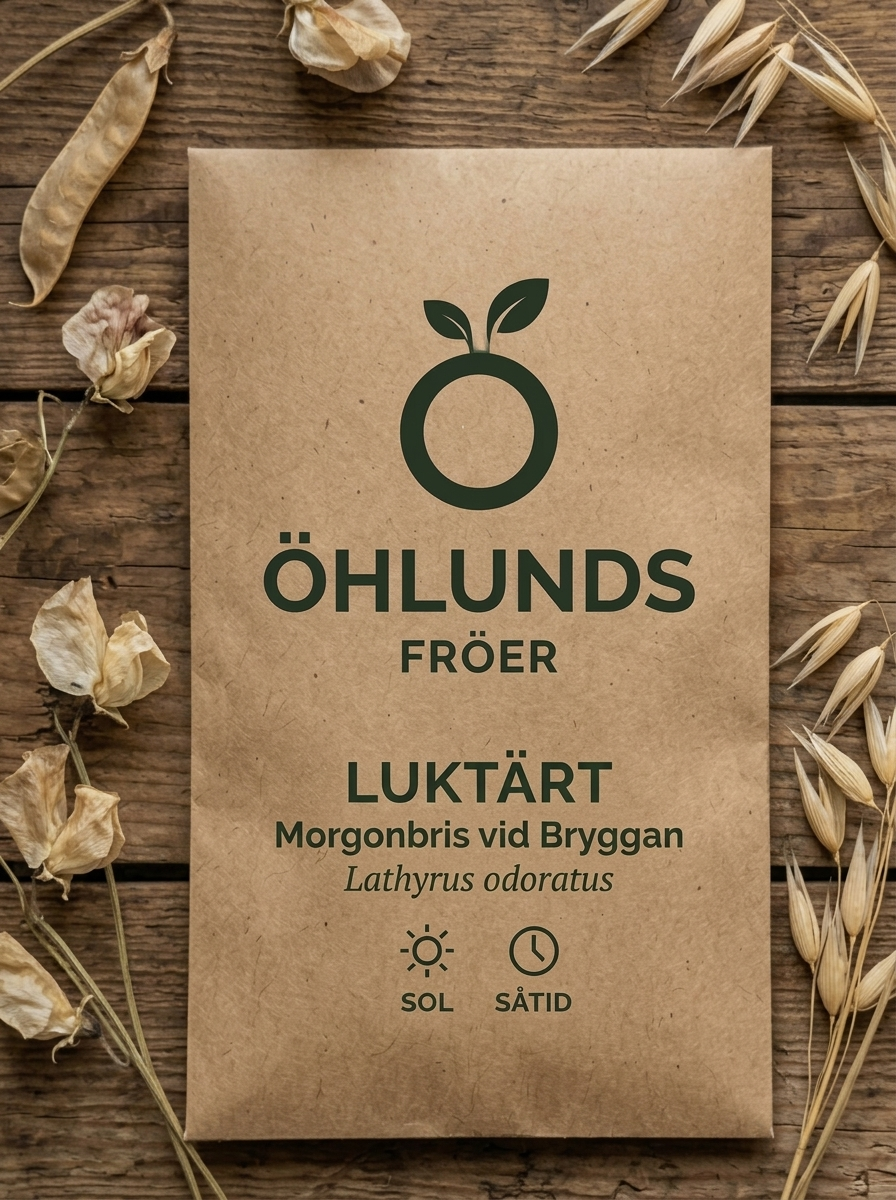
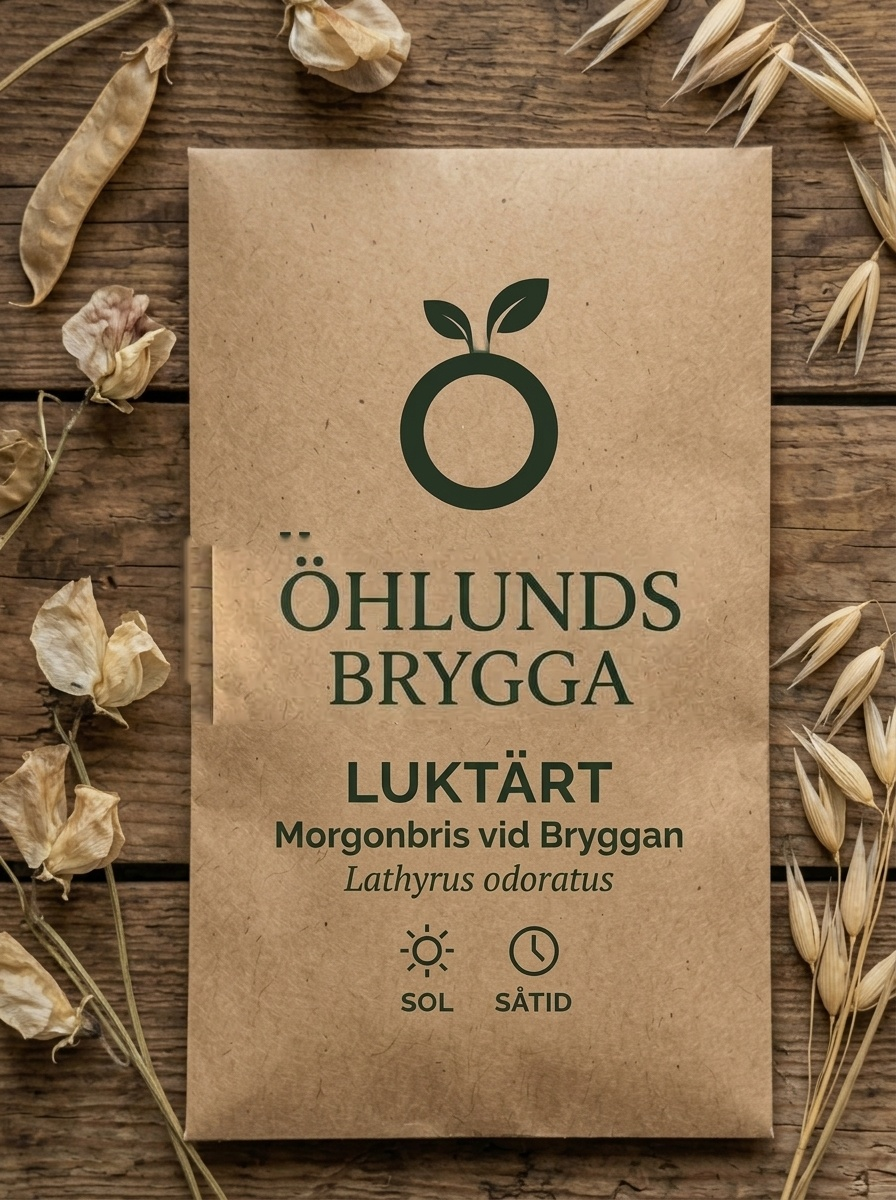
fix(branding): uppdatera ÖHLUNDS BRYGGA på trämärketiketter, luktärt & körsbärstomat samt automatisk paketrabatt i varukorg

Changed region(s): [[0.1875, 0.4317, 0.7812, 0.6167]]

diff --git a/prototype-sandbox/src/app/page.tsx b/prototype-sandbox/src/app/page.tsx
@@ -207,16 +207,31 @@ export default function StorefrontPage() {
   const FREE_SHIPPING_LIMIT = 350;
   const isFreeShipping = (cartSubtotal >= FREE_SHIPPING_LIMIT || appliedPromo?.type === "FREE_SHIPPING") && !hasBulkyParcel;
 
+  // Bundle discount in cart:
+  // If all 4 items from the bundle are in cart, an automatic bundle discount of 23 kr applies (145 kr bundle price vs 168 kr regular price)
+  const bundleDiscountMultiplier = useMemo(() => {
+    const quantities = bundleComponentIds.map((id) => {
+      const found = cart.find((it) => it.product.id === id);
+      return found ? found.qty : 0;
+    });
+    return Math.min(...quantities);
+  }, [cart, bundleComponentIds]);
+
+  const bundleDiscountAmount = bundleDiscountMultiplier * 23; // 168 kr ordinarie - 145 kr paketpris = 23 kr rabatt per komplett set
+
   const discountAmount = useMemo(() => {
     if (!appliedPromo) return 0;
+    const baseForPromo = Math.max(0, cartSubtotal - bundleDiscountAmount);
     if (appliedPromo.type === "PERCENT") {
-      return Math.round((cartSubtotal * appliedPromo.value) / 100);
+      return Math.round((baseForPromo * appliedPromo.value) / 100);
     }
     if (appliedPromo.type === "FIXED") {
-      return Math.min(cartSubtotal, appliedPromo.value);
+      return Math.min(baseForPromo, appliedPromo.value);
     }
     return 0;
-  }, [appliedPromo, cartSubtotal]);
+  }, [appliedPromo, cartSubtotal, bundleDiscountAmount]);
+
+  const totalDiscount = bundleDiscountAmount + discountAmount;
 
   const shippingCost = useMemo(() => {
     if (cart.length === 0) return 0;
@@ -224,7 +239,7 @@ export default function StorefrontPage() {
     return isFreeShipping ? 0 : 29;
   }, [cart, hasBulkyParcel, isFreeShipping]);
 
-  const cartTotal = Math.max(0, cartSubtotal - discountAmount + shippingCost);
+  const cartTotal = Math.max(0, cartSubtotal - totalDiscount + shippingCost);
 
   // Filtered products
   const filteredProducts = useMemo(() => {
@@ -1235,9 +1250,15 @@ export default function StorefrontPage() {
                   <span>Delsumma</span>
                   <span>{cartSubtotal} kr</span>
                 </div>
+                {bundleDiscountAmount > 0 && (
+                  <div className="flex justify-between text-xs text-pine font-medium bg-pine/5 px-2 py-1 rounded-md">
+                    <span>🌸 Paketprisrabatt (Sensommardröm{bundleDiscountMultiplier > 1 ? ` x${bundleDiscountMultiplier}` : ""})</span>
+                    <span className="font-bold">-{bundleDiscountAmount} kr</span>
+                  </div>
+                )}
                 {appliedPromo && discountAmount > 0 && (
                   <div className="flex justify-between text-xs text-pine font-medium">
-                    <span>Rabatt ({appliedPromo.code})</span>
+                    <span>Rabattkod ({appliedPromo.code})</span>
                     <span className="font-bold">-{discountAmount} kr</span>
                   </div>
                 )}
